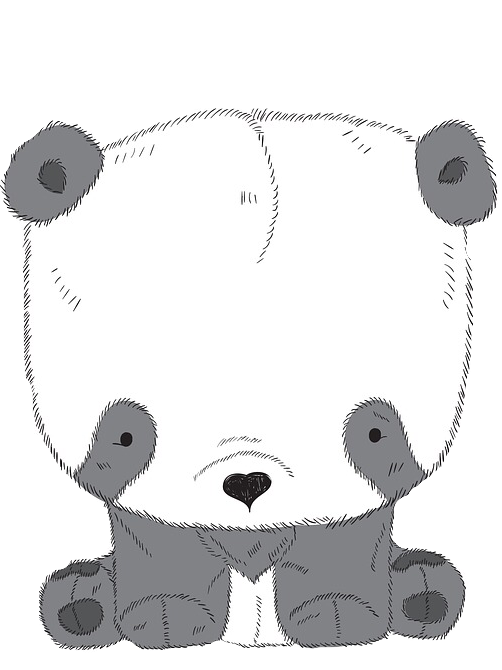
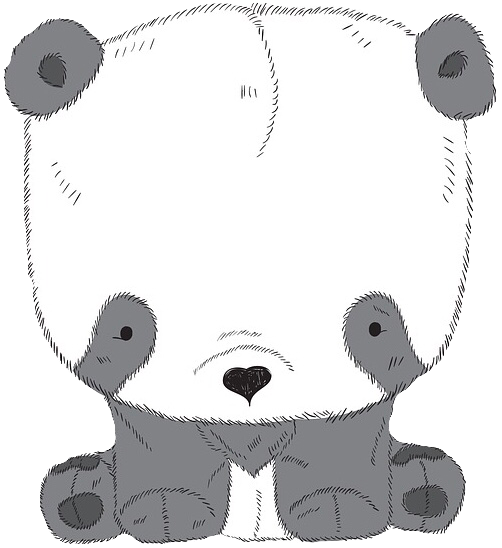
20210119デザイン

diff --git a/WebContent/css/stylesheet.css b/WebContent/css/stylesheet.css
@@ -1,0 +1,11 @@
+@CHARSET "UTF-8";
+
+.body {
+	margin-left: 950px;
+	margin-top: 200px;
+	background: #EEE8AA;
+}
+
+.fortune{
+	background: #EEE8AA;
+}

diff --git a/src/Servlet/InputBirthday.java b/src/Servlet/InputBirthday.java
@@ -49,22 +49,23 @@ public class InputBirthday extends HttpServlet {
 		/**InputImageの全体*/
 		//InputImage部分の設定
 		out.println(".InputImage{");
-		out.println("width: 50px;");
-		out.println("height: 50px;");
+		out.println("width: 500px;");
+		out.println("height: 500px;");
 		out.println("}");
 		// .balloon部分の設定
 		out.println(".balloon{");
 		out.println("position: relative;");
 		out.println("display: inline-block;");
 		out.println("margin-left: -900px;");
+		out.println("margin-top: -150px;");
 		out.println("margin-bottom: -300px;");
 		out.println("width: 300px;");
 		out.println("height: 150px;");
 		out.println("text-align: center;");
 		out.println("padding:50px 0;");
 		out.println("color: #FFF;");
-		out.println("font-family: ヒラギノ丸ゴ ProN W4;");
-		out.println("font-size: 15px;");
+		out.println("font-family: fantasy;");
+		out.println("font-size: 25px;");
 		out.println("font-weight: bold;");
 		out.println("background: #778899;");
 		out.println("border-radius: 50%;");
@@ -81,7 +82,6 @@ public class InputBirthday extends HttpServlet {
 		out.println("border-top: 15px solid #778899;");
 		out.println("z-index: 0;");
 		out.println("}");
-
 		out.println(".balloon p {");
 		out.println("margin: 0;");
 		out.println("padding: 0;");
@@ -92,12 +92,11 @@ public class InputBirthday extends HttpServlet {
 
 		// .panda画像の設定
 		out.println(".panda{");
-		out.println("margin-left: -800px;");
-		out.println("margin-top: 80px;");
-		out.println("width: -500px;");
-		out.println("height: -100px;");
+		out.println("margin-left: -900px;");
+		out.println("margin-top: 100px;");
+		out.println("width: 300px;");
+		out.println("height: 300px;");
 		out.println("}");
-
 		/**InputBirthdayの全体*/
 		// InputBirthday部分の設定
 		out.println(".InputBirthday{");
@@ -106,7 +105,7 @@ public class InputBirthday extends HttpServlet {
 		// .errorMessage部分の設定
 		out.println(".errorMessage{");
 		out.println("font-size: 14px;");
-		out.println("color: #FF4F50;");
+		out.println("color: #CD5C5C;");
 		out.println("}");
 		// .explain部分の設定
 		out.println(".explain{");
@@ -114,10 +113,6 @@ public class InputBirthday extends HttpServlet {
 		out.println("font-family: cursive;");
 		out.println("color: #708090;");
 		out.println("}");
-
-
-
-		// out.println("");
 		out.println(" </style>");
 		out.println("</head>");
 
@@ -139,7 +134,7 @@ public class InputBirthday extends HttpServlet {
 		// 誕生日入力テキストと占うボタン
 		out.println("<form action=\"/office_training_Servlet_JSP/ChangeToResults\" method=\"post\">");
 		out.println("<input type=\"text\" id=\"birthday\" name=\"birthday\" placeholder=\"例：20210107\">");
-		out.println("<input type=\"submit\" value=\"占う\"/>");
+		out.println("<input class=\"button\" type=\"submit\" value=\"占う\"/>");
 		out.println("<form>");
 		out.println("</div>");
 
@@ -152,8 +147,8 @@ public class InputBirthday extends HttpServlet {
 		out.println("今日のあなたの運勢は...");
 		out.println("</div>");
 		// 画像の挿入
-		out.println("<div class=\"panda\">");
-		out.println("<img src=\"/office_training_Servlet_JSP/img/panda.jpg\">");
+		out.println("<div>");
+		out.println("<img class=\"panda\" src=\"/office_training_Servlet_JSP/img/panda.jpg\">");
 		out.println("</div>");
 		out.println("</div>");
 
